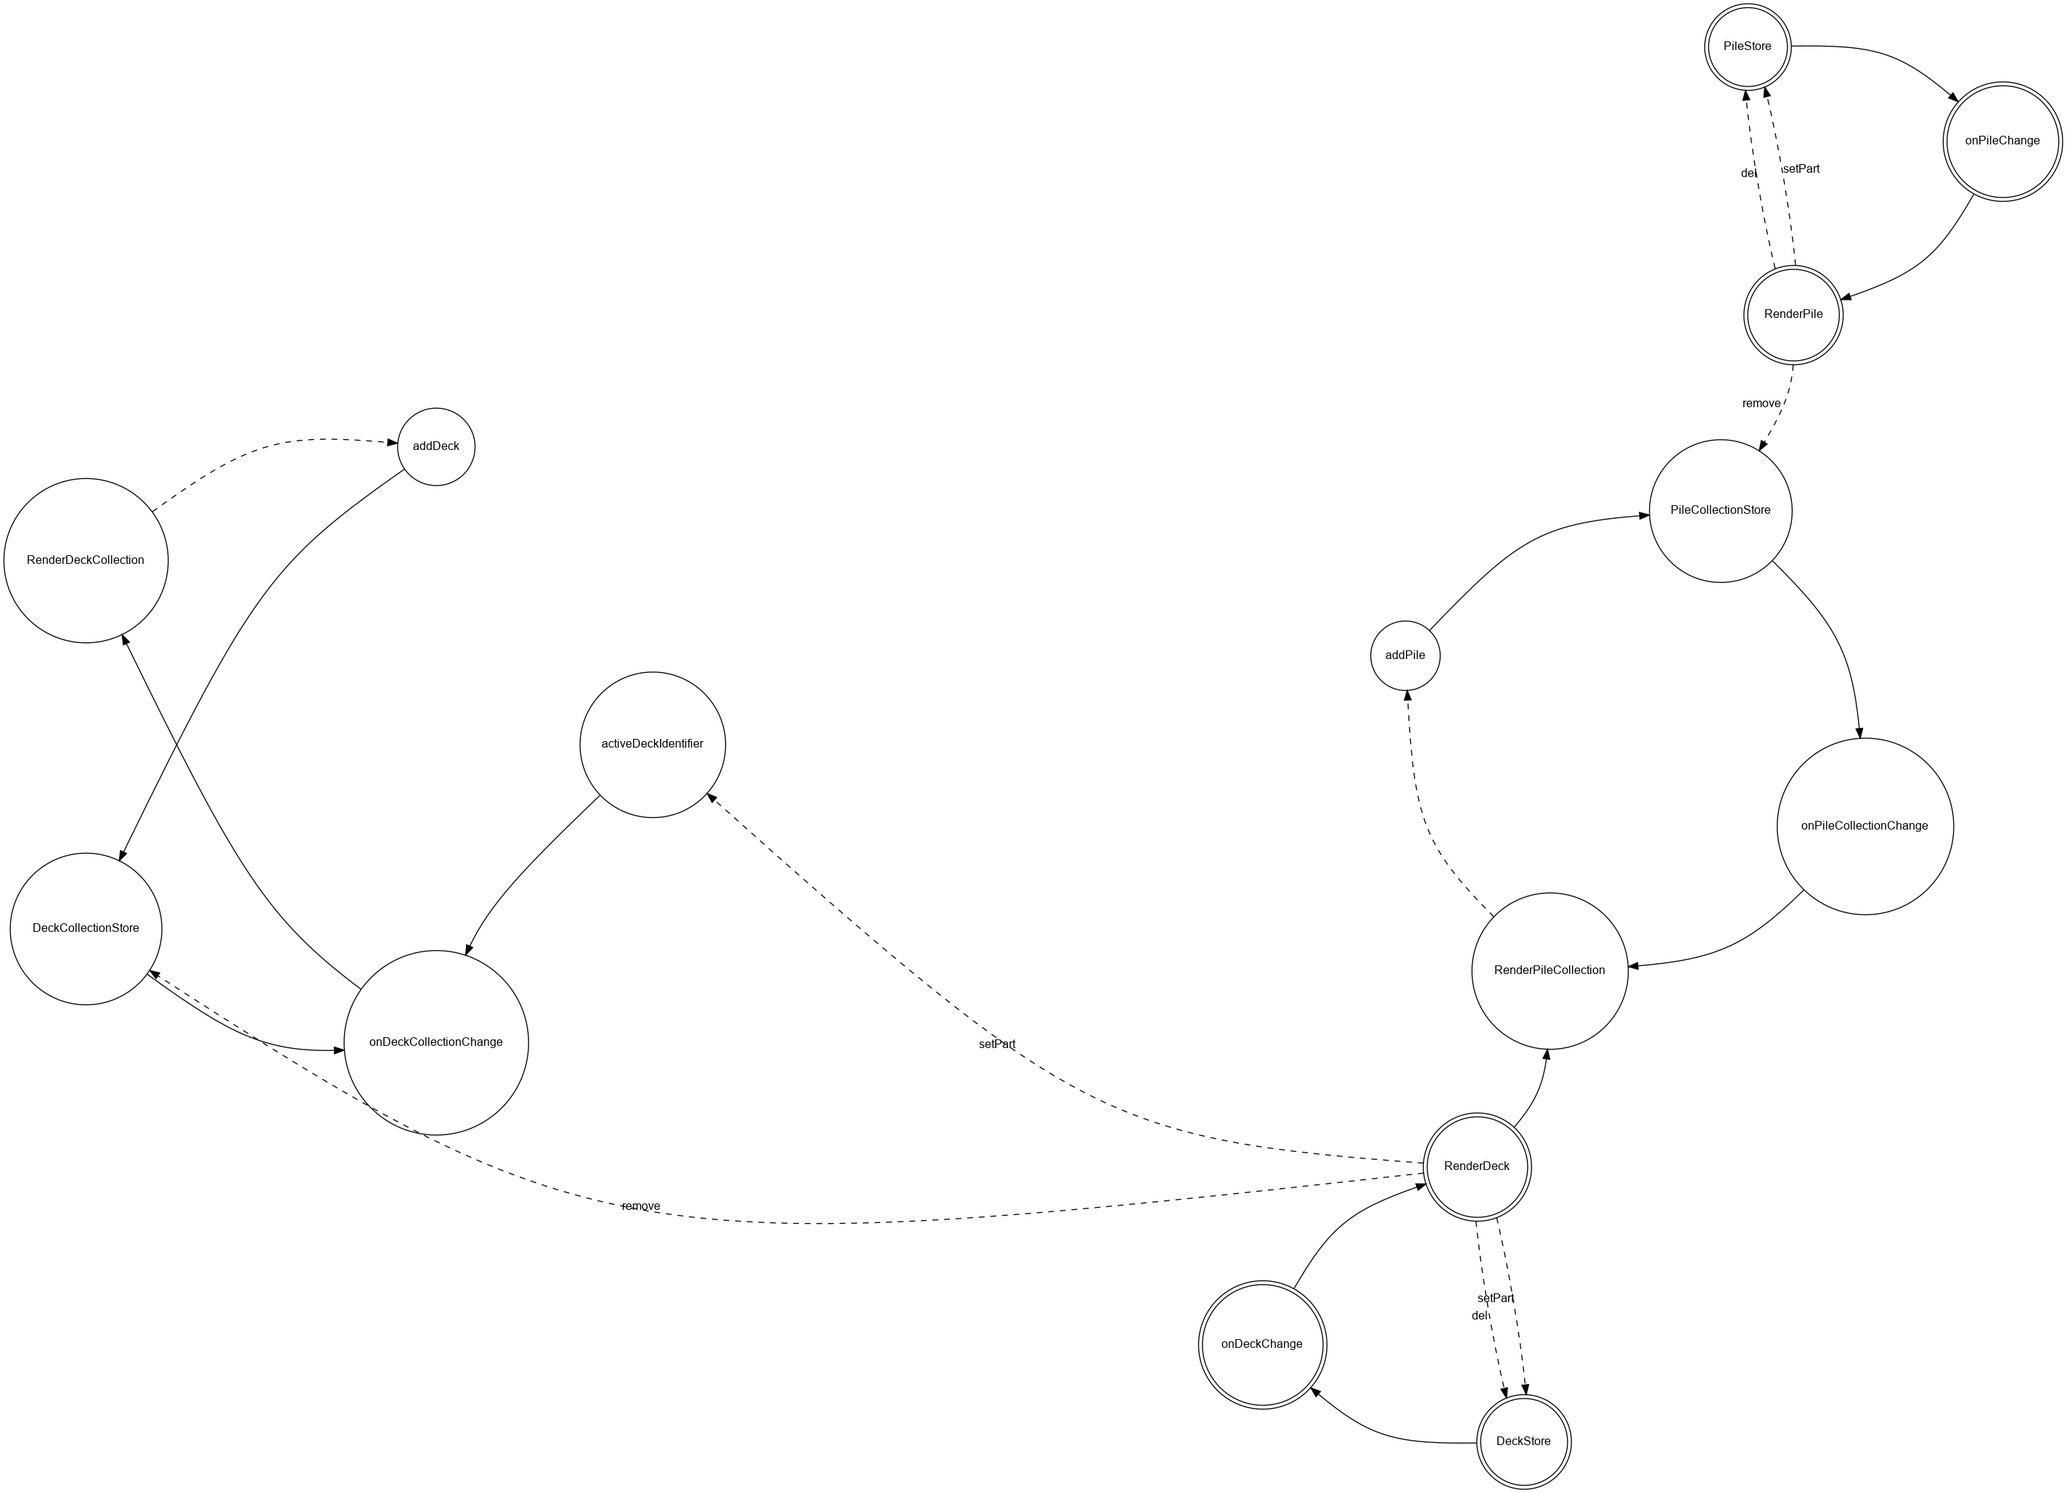
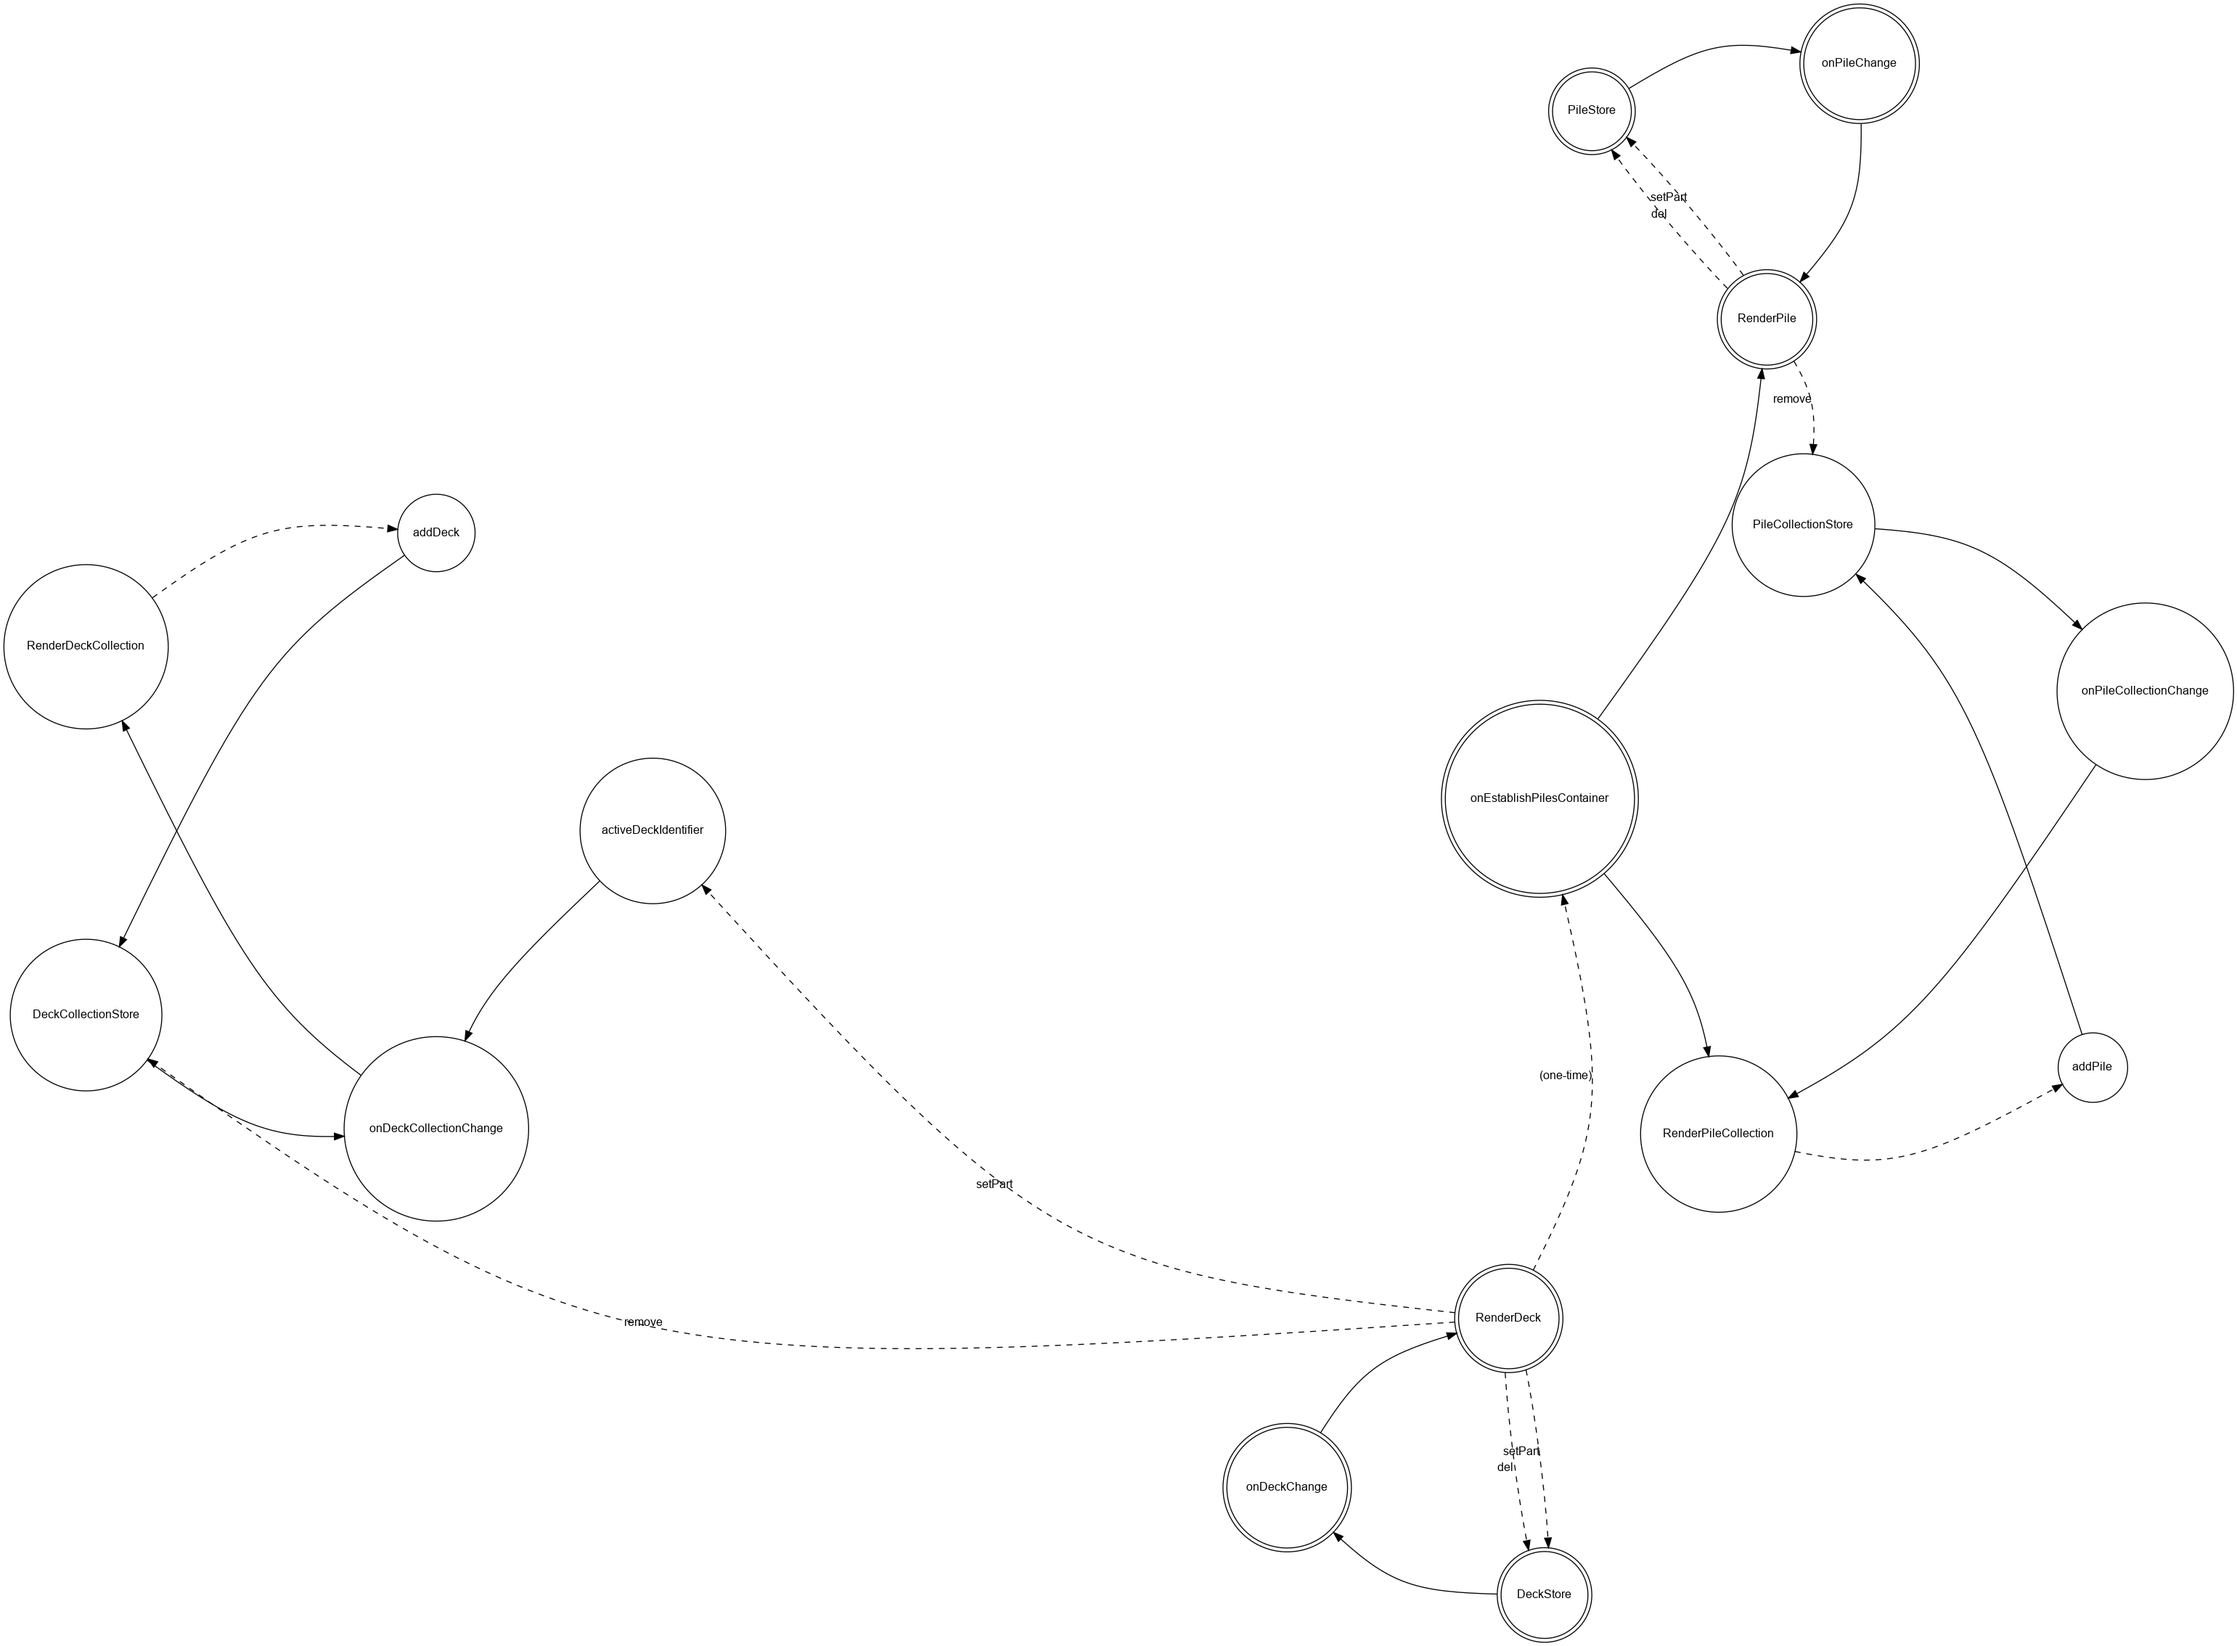
Fix construction of OnPileChange so it has a renderer. Add onEstablishElement so that child items can render the first time their containers are ready. Piles now render but are not persistent.

diff --git a/machines/main-machine.ts b/machines/main-machine.ts
@@ -15,7 +15,8 @@ import {
 } from '../wily.js/persistence/local';
 import { PilesPersister } from '../persisters/piles-persister';
 import { OnCollectionChange } from '../wily.js/responders/basic-responders';
-import { OnDeckChange, OnPileChange } from '../responders/responders';
+import { OnDeckChange, OnPileChange } from '../responders/store-responders';
+import { OnEstablishPilesContainer } from '../responders/render-responders';
 import { AddThing } from '../wily.js/updaters/collection-modifiers';
 import { RenderDeck, RenderDeckCollection } from '../renderers/deck-renderers';
 import { RenderPile, RenderPileCollection } from '../renderers/pile-renderers';
@@ -125,7 +126,7 @@ function deckResponderMapper(
     pileCollectionStore,
     createNewPile,
     thingPersister,
-    curry(OnPileChange)(pileCollectionStore, deckStore),
+    curry(OnPileChange)(RenderPile(), pileCollectionStore, deckStore),
     registry
   );
 
@@ -144,13 +145,16 @@ function deckResponderMapper(
   var onPileChangeFns = pileStores.map(
     curry(onPileChangeMapper)(pileCollectionStore, deckStore)
   );
-  onPileChangeFns.forEach((update, i) => update(pileStores[i]));
 
   return OnDeckChange(
     RenderDeck({
       parentSelector: `#${deckStore.get().id}`,
       renderPileCollection,
       pileCollectionStore,
+      onEstablishElement: OnEstablishPilesContainer(
+        pileStores,
+        onPileChangeFns
+      ),
     }),
     deckCollectionStore,
     activeDeckIdentifier,
@@ -168,7 +172,7 @@ function onPileChangeMapper(
   store: ThingStoreType
 ) {
   return OnPileChange(
-    RenderPile({ parentSelector: `#${store.get().id}` }),
+    RenderPile(),
     pileCollectionStore,
     containingDeckStore,
     store

diff --git a/renderers/deck-renderers.ts b/renderers/deck-renderers.ts
@@ -9,6 +9,7 @@ export function RenderDeck({
   parentSelector,
   renderPileCollection,
   pileCollectionStore,
+  onEstablishElement,
 }) {
   //var renderPileCollection = RenderPileCollection({
   //parentSelector: `${parentSelector} .pile-collection-container`,
@@ -95,6 +96,9 @@ export function RenderDeck({
     function initPilesContainer(sel) {
       sel.attr('class', 'pile-collection-container');
       renderPileCollection(pileCollectionStore);
+      onEstablishElement(sel.node());
+      // Should never need this again.
+      onEstablishElement = null;
     }
 
     function removeThing() {

diff --git a/renderers/pile-renderers.ts b/renderers/pile-renderers.ts
@@ -3,7 +3,7 @@ import { establish } from '../wily.js/rendering/establish';
 import type { Pile, ThingStoreType, CollectionStoreType } from '../types';
 import curry from 'lodash.curry';
 
-export function RenderPile({ parentSelector }) {
+export function RenderPile() {
   return render;
 
   function render(
@@ -12,7 +12,7 @@ export function RenderPile({ parentSelector }) {
     store: ThingStoreType
   ) {
     var pile: Pile = store.get();
-
+    const parentSelector = `#${pile.id}`;
     var parentSel = select(parentSelector);
 
     var nameSel = establish(

diff --git a/responders/render-responders.ts b/responders/render-responders.ts
@@ -1,0 +1,14 @@
+import type { ThingStoreType } from '../types';
+
+export function OnEstablishPilesContainer(
+  pileStores: ThingStoreType[],
+  onPileChangeFns
+) {
+  return onEstablishElement;
+
+  function onEstablishElement(el) {
+    if (el.classList.contains('pile-collection-container')) {
+      onPileChangeFns.forEach((onPileChange, i) => onPileChange(pileStores[i]));
+    }
+  }
+}

diff --git a/wily.js/updaters/collection-modifiers.ts b/wily.js/updaters/collection-modifiers.ts
@@ -25,6 +25,7 @@ export function AddThing(
 
     function setUpResponderForStore() {
       var newResponder = createItemResponder(newStore);
+      // Trigger the initial render of the new thing.
       newResponder(newStore);
       collectionStore.unsubscribe(setUpResponderForStore);
     }
